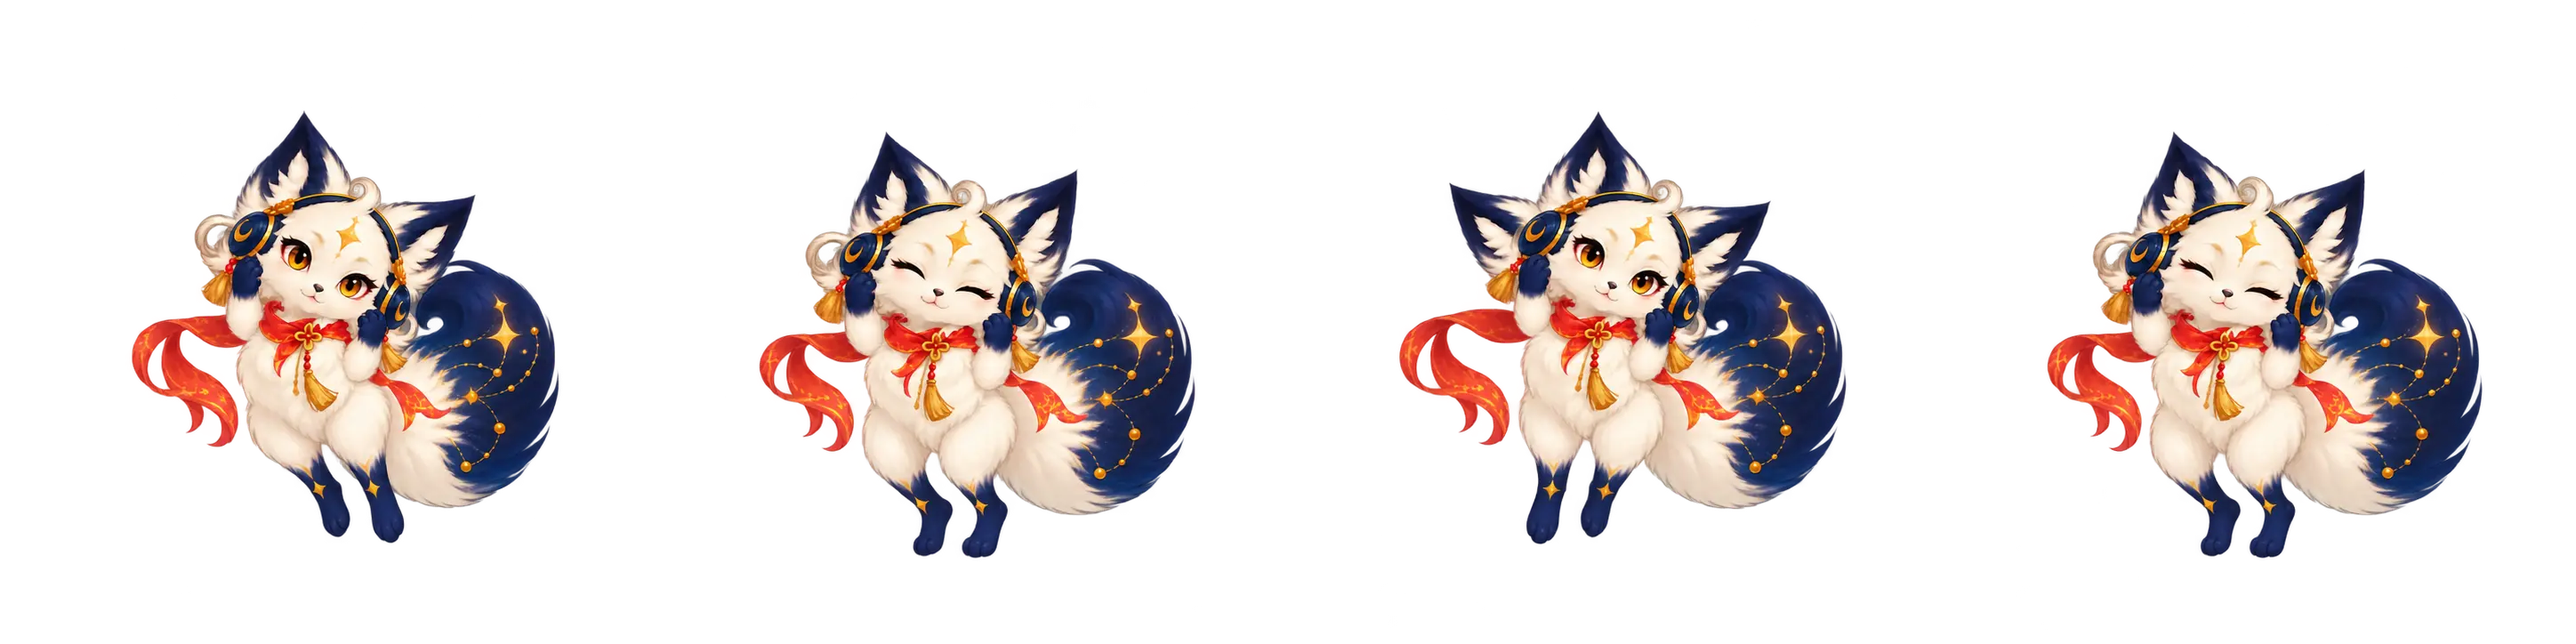
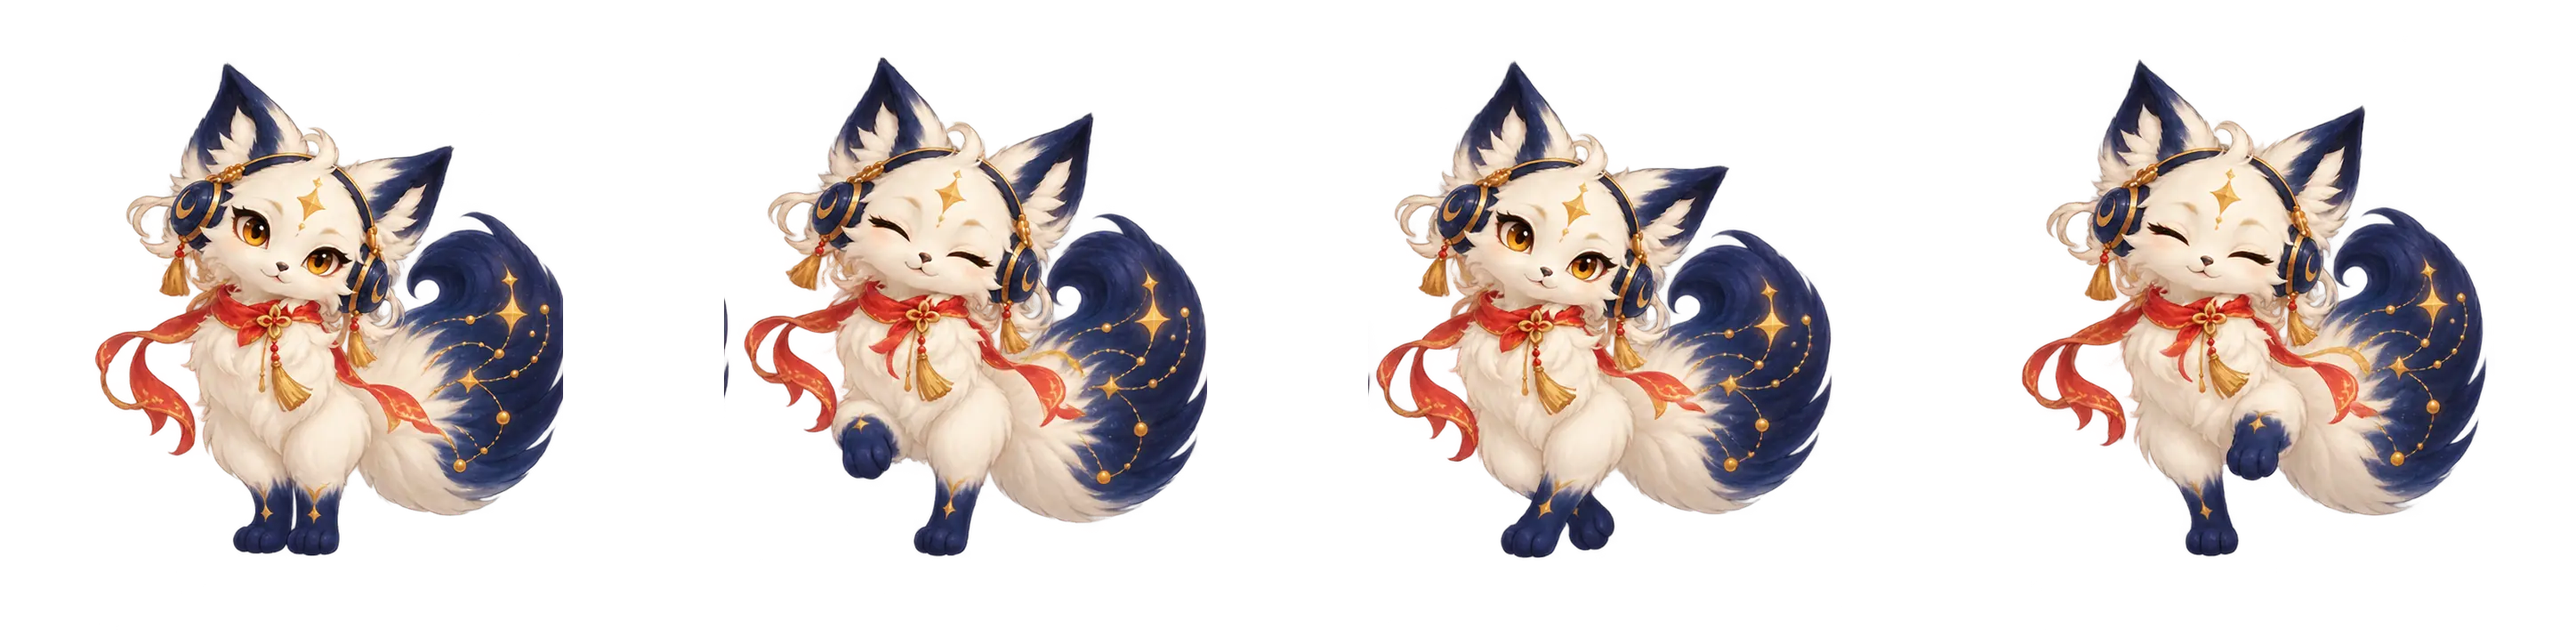
Revert "Corrige as mãos e o salto lateral da Sophia"

diff --git a/src/styles/global.css b/src/styles/global.css
@@ -6954,10 +6954,9 @@ html[data-serious-mode='true'] .lab-title-with-sophia { grid-template-columns: m
   75% { background-position: 100% 0; }
 }
 @keyframes sophia-music-hop {
-  0%, 100% { transform: translateX(6%) translateY(-12px) rotate(2deg); }
-  25% { transform: translateX(6%) translateY(0) rotate(2deg); }
-  50% { transform: translateX(-6%) translateY(-12px) rotate(-2deg); }
-  75% { transform: translateX(-6%) translateY(0) rotate(-2deg); }
+  0%, 100% { transform: translateY(0) rotate(-2deg); }
+  25%, 75% { transform: translateY(-5px) rotate(0); }
+  50% { transform: translateY(-10px) rotate(2deg); }
 }
 @keyframes sophia-notes {
   0%, 100% { background-position: 0 0; } 25% { background-position: 33.333333% 0; }
